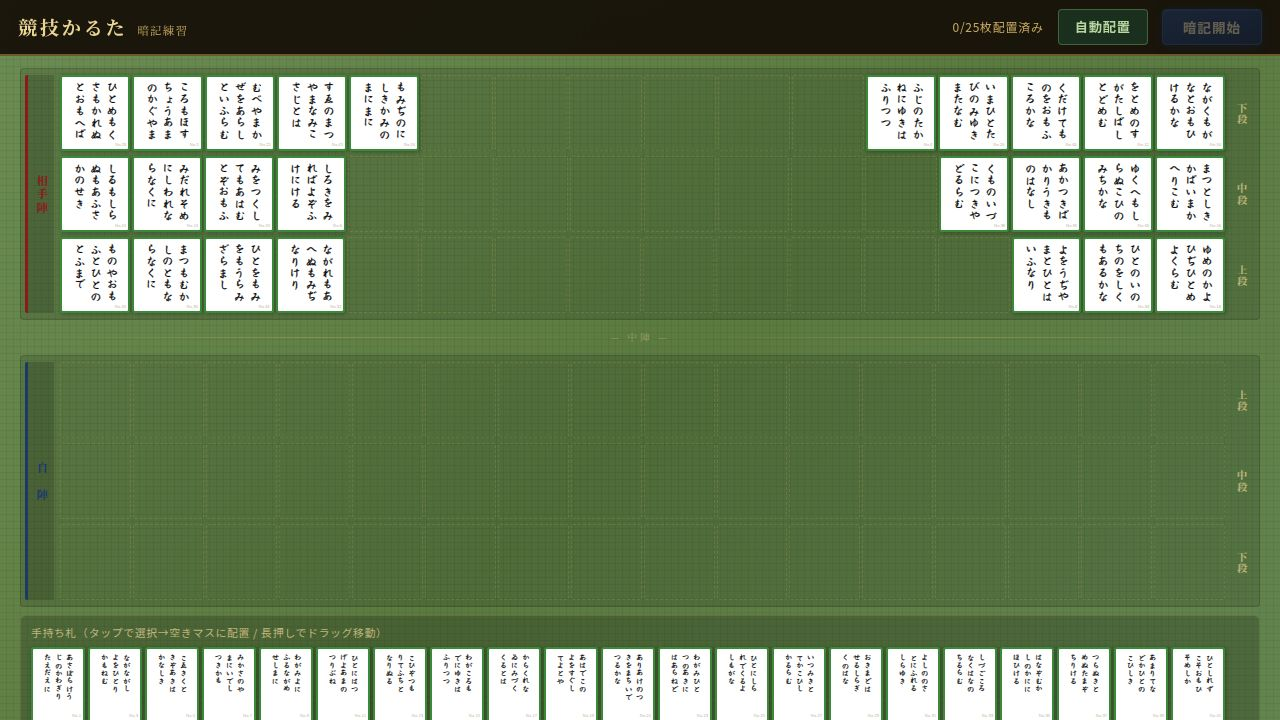
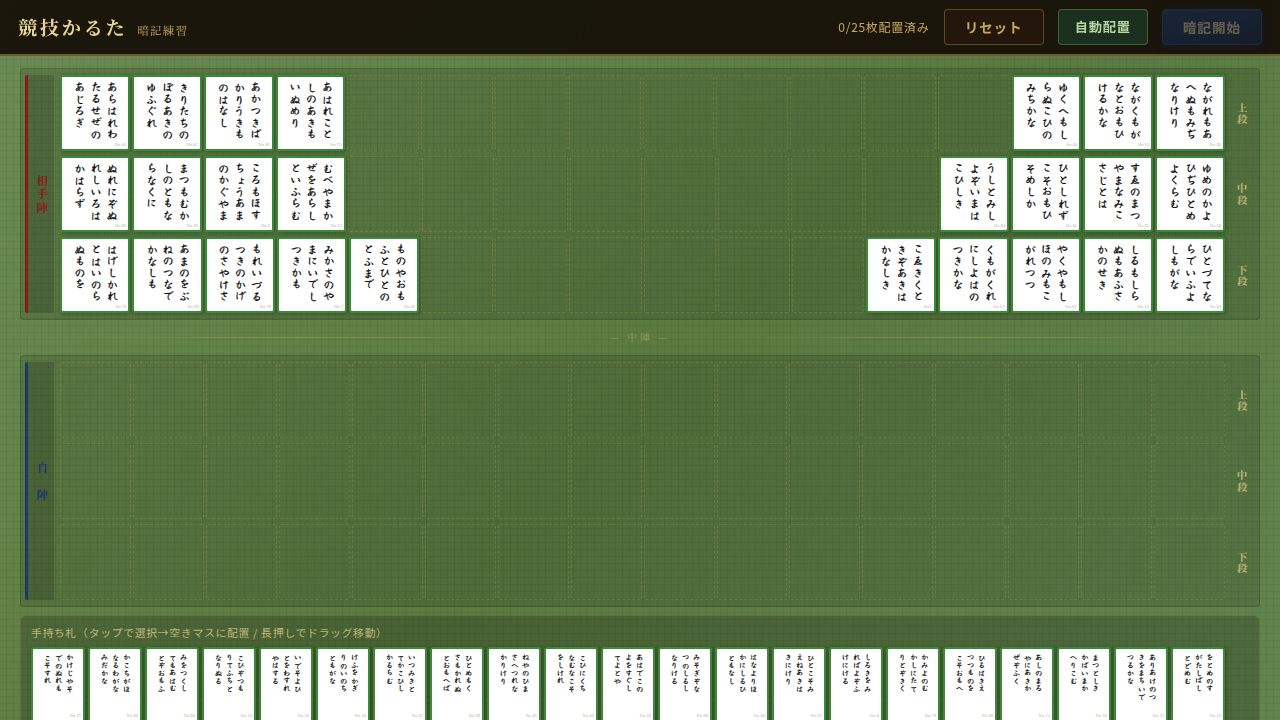
Update game board to flip opponent's cards and allow card movement
Refactor drag and drop functionality to enable reordering of opponent cards within their grid and update opponent grid rendering to flip the card layout.

Replit-Commit-Author: Agent
Replit-Commit-Session-Id: 02fd4c7f-324e-4836-ba8b-cf70d435270a
Replit-Commit-Checkpoint-Type: full_checkpoint
Replit-Commit-Event-Id: 12e1e7e4-81ca-43f9-bd5f-cff6475df18d
Replit-Commit-Screenshot-Url: https://storage.googleapis.com/screenshot-production-us-central1/57f5f505-cd92-4593-9332-019287508263/02fd4c7f-324e-4836-ba8b-cf70d435270a/E5hCnR0
Replit-Helium-Checkpoint-Created: true

diff --git a/artifacts/karuta-practice/src/pages/KarutaBoard.tsx b/artifacts/karuta-practice/src/pages/KarutaBoard.tsx
@@ -49,6 +49,7 @@ export default function KarutaBoard() {
   const longPressTimer = useRef<ReturnType<typeof setTimeout> | null>(null);
   const didDrag = useRef(false);
   const pressStart = useRef<{ x: number; y: number } | null>(null);
+  const dragRef = useRef<DragState | null>(null);
 
   const myCardCount = useRef(25);
 
@@ -63,6 +64,7 @@ export default function KarutaBoard() {
     setGameState("placing");
     setFaceUpMap({});
     setDragState(null);
+    dragRef.current = null;
   }, []);
 
   useEffect(() => { initBoard(); }, [initBoard]);
@@ -77,40 +79,13 @@ export default function KarutaBoard() {
     }
   };
 
-  const getClientPos = (e: React.MouseEvent | React.TouchEvent) => {
+  const getClientPos = (e: React.MouseEvent | React.TouchEvent | MouseEvent | TouchEvent) => {
     if ("touches" in e) {
-      const t = e.touches[0] || (e as React.TouchEvent).changedTouches[0];
+      const t = (e as TouchEvent).touches[0] || (e as TouchEvent).changedTouches[0];
       return { x: t.clientX, y: t.clientY };
     }
-    return { x: (e as React.MouseEvent).clientX, y: (e as React.MouseEvent).clientY };
+    return { x: (e as MouseEvent).clientX, y: (e as MouseEvent).clientY };
   };
-
-  const startLongPress = (
-    e: React.MouseEvent | React.TouchEvent,
-    cardId: number,
-    sourceType: "grid" | "hand",
-    sourceField?: FieldType,
-    sourceRow?: number,
-    sourceCol?: number
-  ) => {
-    if (gameState !== "placing") return;
-    const pos = getClientPos(e);
-    pressStart.current = pos;
-    didDrag.current = false;
-    cancelLongPress();
-    longPressTimer.current = setTimeout(() => {
-      didDrag.current = true;
-      setDragState({ cardId, sourceType, sourceField, sourceRow, sourceCol, x: pos.x, y: pos.y });
-    }, LONG_PRESS_MS);
-  };
-
-  const onPointerMove = useCallback((e: MouseEvent | TouchEvent) => {
-    if (!dragState) return;
-    const pos = "touches" in e
-      ? { x: e.touches[0].clientX, y: e.touches[0].clientY }
-      : { x: (e as MouseEvent).clientX, y: (e as MouseEvent).clientY };
-    setDragState((prev) => prev ? { ...prev, x: pos.x, y: pos.y } : null);
-  }, [dragState]);
 
   const findSlotAt = (x: number, y: number): { field: FieldType; row: number; col: number } | null => {
     const el = document.elementFromPoint(x, y);
@@ -125,97 +100,117 @@ export default function KarutaBoard() {
   };
 
   const getGridSetter = (field: FieldType) => field === "my" ? setSelfGrid : setOpGrid;
-  const getGrid = (field: FieldType) => field === "my" ? selfGrid : opGrid;
 
-  const onPointerUp = useCallback((e: MouseEvent | TouchEvent) => {
+  const cleanupDragListeners = useRef<(() => void) | null>(null);
+
+  const startDrag = (
+    e: React.MouseEvent | React.TouchEvent,
+    cardId: number,
+    sourceType: "grid" | "hand",
+    sourceField?: FieldType,
+    sourceRow?: number,
+    sourceCol?: number
+  ) => {
+    if (gameState !== "placing") return;
+    const pos = getClientPos(e);
+    pressStart.current = pos;
+    didDrag.current = false;
     cancelLongPress();
-    if (!dragState) return;
-    const pos = "touches" in e
-      ? { x: (e as TouchEvent).changedTouches[0].clientX, y: (e as TouchEvent).changedTouches[0].clientY }
-      : { x: (e as MouseEvent).clientX, y: (e as MouseEvent).clientY };
 
-    const target = findSlotAt(pos.x, pos.y);
-    if (target) {
-      const { field: targetField, row, col } = target;
-      const targetGrid = targetField === "my" ? selfGrid : opGrid;
-      const existing = targetGrid[row][col];
+    if (cleanupDragListeners.current) {
+      cleanupDragListeners.current();
+    }
 
-      if (dragState.sourceType === "hand") {
-        if (targetField === "my") {
-          if (existing === null) {
+    longPressTimer.current = setTimeout(() => {
+      longPressTimer.current = null;
+      didDrag.current = true;
+      const ds: DragState = { cardId, sourceType, sourceField, sourceRow, sourceCol, x: pos.x, y: pos.y };
+      dragRef.current = ds;
+      setDragState(ds);
+    }, LONG_PRESS_MS);
+
+    const onMove = (ev: MouseEvent | TouchEvent) => {
+      const p = getClientPos(ev);
+
+      if (longPressTimer.current) {
+        const dx = p.x - pos.x;
+        const dy = p.y - pos.y;
+        if (Math.abs(dx) > 8 || Math.abs(dy) > 8) {
+          cancelLongPress();
+          cleanup();
+        }
+        return;
+      }
+
+      if (dragRef.current) {
+        ev.preventDefault();
+        const updated = { ...dragRef.current, x: p.x, y: p.y };
+        dragRef.current = updated;
+        setDragState(updated);
+      }
+    };
+
+    const onUp = (ev: MouseEvent | TouchEvent) => {
+      cancelLongPress();
+      cleanup();
+
+      const currentDrag = dragRef.current;
+      if (!currentDrag) return;
+
+      const p = getClientPos(ev);
+      const target = findSlotAt(p.x, p.y);
+      if (target) {
+        const { field: targetField, row, col } = target;
+
+        if (currentDrag.sourceType === "hand") {
+          if (targetField === "my") {
             setSelfGrid((prev) => {
+              const existing = prev[row][col];
               const g = prev.map((r) => [...r]);
-              g[row][col] = dragState.cardId;
+              g[row][col] = currentDrag.cardId;
+              if (existing !== null && existing !== currentDrag.cardId) {
+                setHandCards((h) => [...h.filter((c) => c !== currentDrag.cardId), existing]);
+              } else {
+                setHandCards((h) => h.filter((c) => c !== currentDrag.cardId));
+              }
               return g;
             });
-            setHandCards((prev) => prev.filter((c) => c !== dragState.cardId));
-          } else if (existing !== dragState.cardId) {
-            setSelfGrid((prev) => {
+          }
+        } else if (currentDrag.sourceField === targetField) {
+          const sr = currentDrag.sourceRow!;
+          const sc = currentDrag.sourceCol!;
+          if (sr !== row || sc !== col) {
+            const setter = getGridSetter(targetField);
+            setter((prev) => {
               const g = prev.map((r) => [...r]);
-              g[row][col] = dragState.cardId;
+              const existing = g[row][col];
+              g[sr][sc] = existing;
+              g[row][col] = currentDrag.cardId;
               return g;
             });
-            setHandCards((prev) => [...prev.filter((c) => c !== dragState.cardId), existing]);
           }
         }
-      } else if (dragState.sourceField === targetField) {
-        const sr = dragState.sourceRow!;
-        const sc = dragState.sourceCol!;
-        if (sr !== row || sc !== col) {
-          const setter = getGridSetter(targetField);
-          setter((prev) => {
-            const g = prev.map((r) => [...r]);
-            g[sr][sc] = existing;
-            g[row][col] = dragState.cardId;
-            return g;
-          });
-        }
       }
-    }
 
-    setDragState(null);
-    setSelectedCard(null);
-  }, [dragState, selfGrid, opGrid, handCards]);
-
-  useEffect(() => {
-    if (!dragState) return;
-    const moveHandler = (e: MouseEvent | TouchEvent) => {
-      e.preventDefault();
-      onPointerMove(e);
+      dragRef.current = null;
+      setDragState(null);
+      setSelectedCard(null);
     };
-    const upHandler = (e: MouseEvent | TouchEvent) => onPointerUp(e);
-    window.addEventListener("mousemove", moveHandler);
-    window.addEventListener("mouseup", upHandler);
-    window.addEventListener("touchmove", moveHandler, { passive: false });
-    window.addEventListener("touchend", upHandler);
-    return () => {
-      window.removeEventListener("mousemove", moveHandler);
-      window.removeEventListener("mouseup", upHandler);
-      window.removeEventListener("touchmove", moveHandler);
-      window.removeEventListener("touchend", upHandler);
+
+    const cleanup = () => {
+      window.removeEventListener("mousemove", onMove);
+      window.removeEventListener("mouseup", onUp);
+      window.removeEventListener("touchmove", onMove);
+      window.removeEventListener("touchend", onUp);
+      cleanupDragListeners.current = null;
     };
-  }, [dragState, onPointerMove, onPointerUp]);
 
-  const handleMouseMoveBeforeDrag = useCallback((e: MouseEvent) => {
-    if (!pressStart.current) return;
-    const dx = e.clientX - pressStart.current.x;
-    const dy = e.clientY - pressStart.current.y;
-    if (Math.abs(dx) > 8 || Math.abs(dy) > 8) {
-      cancelLongPress();
-    }
-  }, []);
-
-  const handleMouseUpBeforeDrag = useCallback(() => {
-    cancelLongPress();
-    pressStart.current = null;
-    window.removeEventListener("mousemove", handleMouseMoveBeforeDrag);
-    window.removeEventListener("mouseup", handleMouseUpBeforeDrag);
-  }, [handleMouseMoveBeforeDrag]);
-
-  const attachPreDragListeners = useCallback(() => {
-    window.addEventListener("mousemove", handleMouseMoveBeforeDrag);
-    window.addEventListener("mouseup", handleMouseUpBeforeDrag);
-  }, [handleMouseMoveBeforeDrag, handleMouseUpBeforeDrag]);
+    window.addEventListener("mousemove", onMove);
+    window.addEventListener("mouseup", onUp);
+    window.addEventListener("touchmove", onMove, { passive: false });
+    window.addEventListener("touchend", onUp);
+    cleanupDragListeners.current = cleanup;
+  };
 
   const handleHandCardClick = (cardId: number) => {
     if (gameState !== "placing" || didDrag.current) return;
@@ -333,10 +328,17 @@ export default function KarutaBoard() {
 
   const resetBoard = () => {
     if (intervalRef.current) { clearInterval(intervalRef.current); intervalRef.current = null; }
+    cancelLongPress();
+    if (cleanupDragListeners.current) cleanupDragListeners.current();
+    dragRef.current = null;
     initBoard();
   };
 
-  useEffect(() => () => { if (intervalRef.current) clearInterval(intervalRef.current); }, []);
+  useEffect(() => () => {
+    if (intervalRef.current) clearInterval(intervalRef.current);
+    cancelLongPress();
+    if (cleanupDragListeners.current) cleanupDragListeners.current();
+  }, []);
 
   const formatTime = (sec: number) => {
     const m = Math.floor(sec / 60).toString().padStart(2, "0");
@@ -381,17 +383,11 @@ export default function KarutaBoard() {
         className={`karuta-card ${isFaceUp(cardId) ? "face-up" : "face-down"} ${canFlip ? "can-flip" : ""} ${isSelected ? "selected" : ""} ${isDragging ? "dragging" : ""}`}
         onClick={() => field === "my" ? handleGridCardClick(cardId) : handleOpCardClick(cardId)}
         onMouseDown={(e) => {
-          if (canDrag) {
-            startLongPress(e, cardId, "grid", field, row, col);
-            attachPreDragListeners();
-          }
+          if (canDrag) startDrag(e, cardId, "grid", field, row, col);
         }}
         onTouchStart={(e) => {
-          if (canDrag) {
-            startLongPress(e, cardId, "grid", field, row, col);
-          }
+          if (canDrag) startDrag(e, cardId, "grid", field, row, col);
         }}
-        onTouchMove={() => cancelLongPress()}
       >
         {renderCardContent(cardId)}
       </div>
@@ -404,22 +400,28 @@ export default function KarutaBoard() {
     rowLabels: string[],
     fieldLabel: string,
     accentColor: string,
-    isEditable: boolean
+    isEditable: boolean,
+    reversed: boolean = false
   ) => {
     const isDragTarget = dragState !== null && (
       (dragState.sourceType === "hand" && field === "my") ||
       (dragState.sourceType === "grid" && dragState.sourceField === field)
     );
+
+    const rowIndices = reversed
+      ? Array.from({ length: grid.length }, (_, i) => grid.length - 1 - i)
+      : Array.from({ length: grid.length }, (_, i) => i);
+
     return (
       <div className="field-wrap">
         <div className="field-name-vertical" style={{ color: accentColor, borderColor: accentColor }}>
           {fieldLabel}
         </div>
         <div className="field-rows">
-          {grid.map((row, rIdx) => (
+          {rowIndices.map((rIdx) => (
             <div key={rIdx} className="row-wrap">
               <div className="card-row grid-row">
-                {row.map((cardId, cIdx) => (
+                {grid[rIdx].map((cardId, cIdx) => (
                   <div
                     key={cIdx}
                     className={`card-slot ${cardId !== null ? "filled" : "empty"} ${
@@ -496,7 +498,7 @@ export default function KarutaBoard() {
 
       <main className="board-main">
         <div className="board-area">
-          {renderGrid(opGrid, "op", OPPONENT_ROW_LABELS, "相手陣", "#8b1a1a", false)}
+          {renderGrid(opGrid, "op", OPPONENT_ROW_LABELS, "相手陣", "#8b1a1a", false, true)}
 
           <div className="center-gap">
             <div className="center-line" />
@@ -520,12 +522,8 @@ export default function KarutaBoard() {
                       key={cardId}
                       className={`karuta-card face-up hand-card ${isSelected ? "selected" : ""} ${isDragging ? "dragging" : ""}`}
                       onClick={() => handleHandCardClick(cardId)}
-                      onMouseDown={(e) => {
-                        startLongPress(e, cardId, "hand");
-                        attachPreDragListeners();
-                      }}
-                      onTouchStart={(e) => startLongPress(e, cardId, "hand")}
-                      onTouchMove={() => cancelLongPress()}
+                      onMouseDown={(e) => startDrag(e, cardId, "hand")}
+                      onTouchStart={(e) => startDrag(e, cardId, "hand")}
                     >
                       <div className="card-inner">
                         <div className="card-front">

diff --git a/replit.md b/replit.md
@@ -35,9 +35,9 @@ See the `pnpm-workspace` skill for workspace structure, TypeScript setup, and pa
 - **Purpose**: 競技かるた（百人一首）の暗記練習ウェブアプリ
 - **Features**:
   - 100首からランダムに50枚を選出、敵25枚・自分25枚に分配
-  - 敵陣は左右に詰めて中央を開ける配置（下段10枚、中段8枚、上段7枚）
+  - 敵陣は上下反転表示（相手目線）、左右に詰めて中央を開ける配置（下段10枚、中段8枚、上段7枚）
   - 自陣はタップまたは長押しドラッグで自由配置
-  - 敵陣も長押しドラッグでカード移動可能
+  - 敵陣も長押しドラッグで同じフィールド内のカード移動・スワップ可能
   - 自動配置ボタン（全ユーザーの配置履歴から学習した配置パターンを使用）
   - 「暗記開始」でタイマー計測開始（配置データをDBに記録）
   - 「ストップ」で全札を裏向きに
